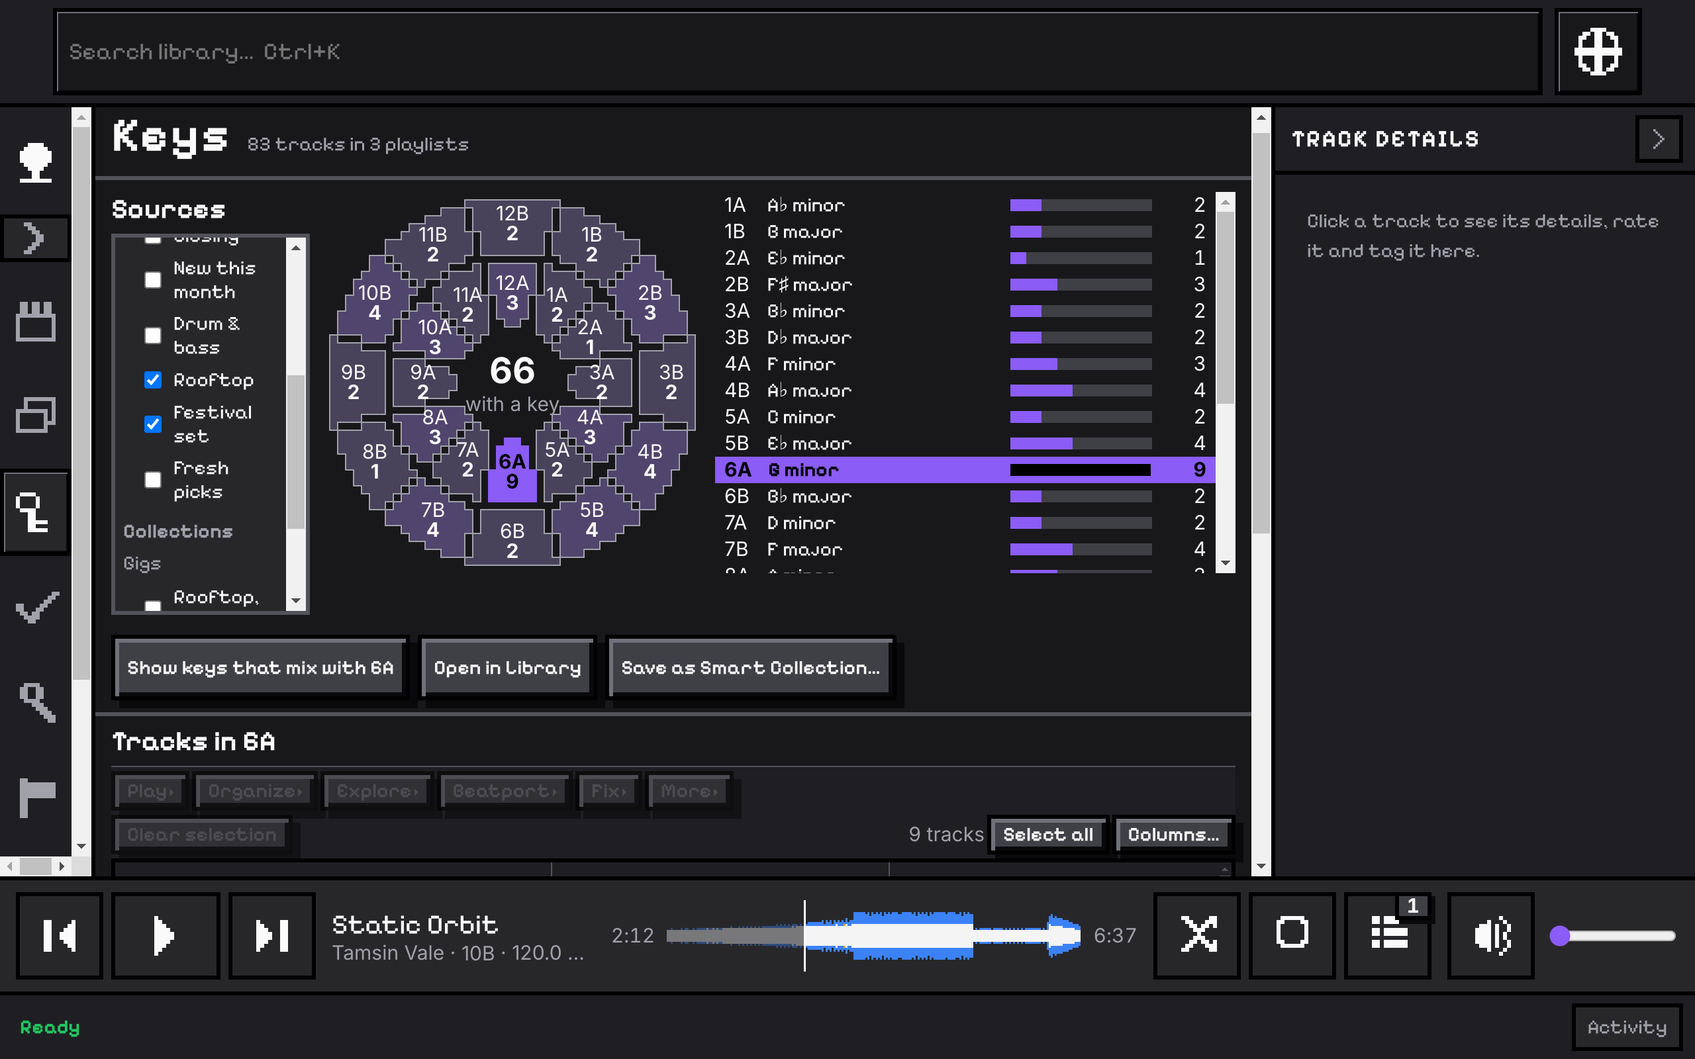
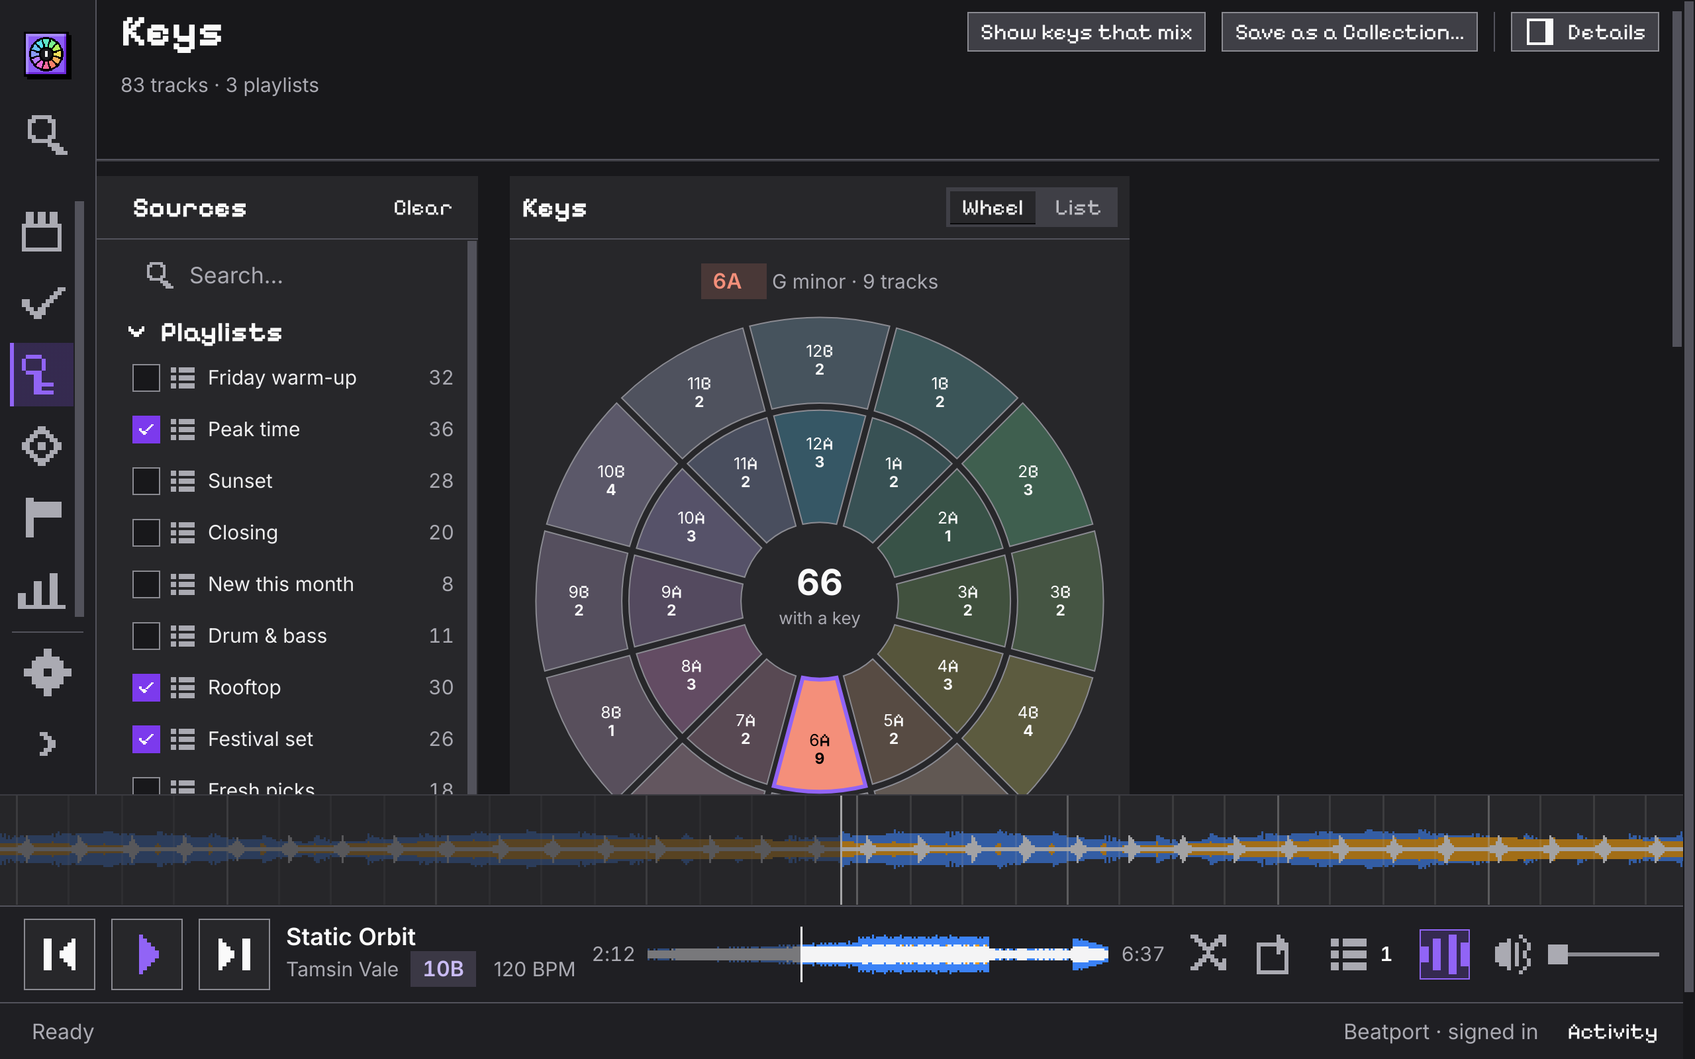
build(website): retake the app's pictures from the current app (SITE-04)
The site still showed the app from mid-October. The capture is brought up to
date with the app (the wheel opens from a key chip, Statistics has tabs, Clean
opens on the seeded Review, the export picks playlists through Change) and
keeps Track details closed in the Library and window pictures, where the
selection bar squeezes beside it at 1280 wide. Captions follow what each
picture now shows.

diff --git a/apps/desktop-electron/e2e/capture/showcase.spec.ts b/apps/desktop-electron/e2e/capture/showcase.spec.ts
@@ -49,16 +49,16 @@ type Bridge = Record<string, any>;
  * (home.ts's words, kept to what the picture shows; reviewed by hand once).
  */
 const ALT: Record<string, string> = {
-  library: "The Library page: the table of tracks with the Collections and playlists beside it, and the Track details panel open on one track, showing its cover, key and waveform.",
-  window: "The CuePoint window on a library of tracks, with the Camelot wheel open and the selected track's key lit with the keys that mix with it.",
-  waveforms: "The player bar with a paused track's waveform, and Track details showing the track's waveform, loudness and cue points.",
-  keys: "The Keys page: the keys of three playlists counted on the Camelot wheel, with one key opened and its tracks counted beneath.",
-  statistics: "The Statistics page's Your library section: four charts of how the whole library spreads by genre, tempo, year and date added, with the count on every bar.",
+  library: "The Library page: the table of tracks with the Collections and playlists beside it, and one track selected with the actions for it above the table.",
+  window: "The CuePoint window on a library of tracks, with the Camelot wheel open on the playing track's key, lit with the keys that mix with it.",
+  waveforms: "The player bar with a paused track's waveform, and Track details showing the whole track's waveform with its cue points listed beneath.",
+  keys: "The Keys page: the keys of three playlists counted on the Camelot wheel, with the key that holds the most tracks picked.",
+  statistics: "The Statistics page's Overview: how the whole library spreads by genre, label and artist, with the count on every bar.",
   prepare: "The Prepare page: a Set as a running order in chapters, with the checks between tracks and the transition strip open on one of them.",
-  export: "The Export to Rekordbox window: how many tracks and which playlists the new Rekordbox file will hold, before anything is written.",
+  export: "The Export to Rekordbox window: how many tracks and playlists the new Rekordbox file will hold, and what goes in it, before anything is written.",
   discover: "The Discover page after a search: new tracks found on a Beatport chart by an artist in the library, with their artists and labels.",
-  clean: "The Clean page's Match area as a table: the tracks a Beatport match left waiting for a yes or no, with their tempo and genre beside them.",
-  "clean-compare": "Clean's Match area, the Review of a run: a track from the library beside the best match Beatport found, with its likelihood, the other results, and the Correct button.",
+  clean: "The Clean page's Match area: the tracks a Beatport match left to check, each beside what Beatport matched it with.",
+  "clean-compare": "Clean's Check the match panel: a track from the library beside the candidates Beatport found, with Use this match and None of these.",
 };
 
 function python(): string {
@@ -237,6 +237,8 @@ async function settled(window: Page) {
 }
 
 async function shoot(window: Page, id: keyof typeof ALT, taken: Record<string, string>) {
+  // the pointer on the status bar's empty middle, so no hint opens over the picture
+  await window.mouse.move(WINDOW.width / 2, WINDOW.height - 4);
   await settled(window);
   const file = path.join(OUT_DIR, `${id}-${THEME}.png`);
   await window.screenshot({ path: file, type: "png", animations: "disabled", caret: "hide" });
@@ -388,7 +390,7 @@ test.describe("the website's pictures (SITE-04)", () => {
         if (await button.count()) await button.click();
         await expect(window.getByRole("button", { name: state === "rail" ? "Expand sidebar" : "Collapse sidebar" })).toBeVisible();
       };
-      await test.step("library: the table with Track details open", async () => {
+      await test.step("library: the table with one track selected", async () => {
         await openLibrary(window);
         // the sidebar as a rail, the way a person with this window keeps it: the table gets its columns
         await sidebar("rail");
@@ -401,22 +403,27 @@ test.describe("the website's pictures (SITE-04)", () => {
         }
         expect(selected, "a visible row with a key").toBeTruthy();
         await titleCell(window, selected).click();
+        // Track details stays closed in this picture and the next: beside it, at this window's width, the
+        // selection bar's menu buttons are squeezed into each other (the owner's pick, 2026-10-30)
         const details = window.getByRole("complementary", { name: "Track details" });
+        // the click opens the panel a moment later: wait for it, then close it
         await expect(details).toBeVisible();
-        await expect(details.locator("[data-testid=inspector-waveform] canvas")).toBeVisible({ timeout: 30_000 });
+        await details.getByRole("button", { name: "Hide track details" }).click();
+        await expect(details).toBeHidden();
         await shoot(window, "library", taken);
       });
 
       await test.step("window: the Camelot wheel open on the selected track's key", async () => {
         // the whole window, with the sidebar's page names on it
         await sidebar("expanded");
-        await window.getByRole("button", { name: "Camelot wheel", exact: true }).click();
+        // the wheel opens from a coloured key chip (K8): the player bar's, with Track details closed
+        const opener = window.locator(".cp-player-bar").getByRole("button", { name: /^Show .+ on the Camelot wheel$/ });
+        await opener.click();
         const wheel = window.getByRole("dialog", { name: "Camelot wheel" });
-        await expect(wheel).toContainText(`Selected: ${selected}`, { timeout: 15_000 });
-        await expect(wheel.locator("[data-lit]").first()).toBeVisible();
+        await expect(wheel.locator("[data-lit]").first()).toBeVisible({ timeout: 15_000 });
         await shoot(window, "window", taken);
-        // the button closes it too; Escape would also clear the table's selection
-        await window.getByRole("button", { name: "Camelot wheel", exact: true }).click();
+        // the chip closes it too; Escape would also clear the table's selection
+        await opener.click();
         await expect(wheel).toBeHidden();
       });
 
@@ -425,16 +432,20 @@ test.describe("the website's pictures (SITE-04)", () => {
       await test.step("waveforms: the player bar and Track details' waveform, loudness and cues", async () => {
         await titleCell(window, selected).click();
         const details = window.getByRole("complementary", { name: "Track details" });
+        // the panel was closed for the pictures before: the header's Details button opens it again
+        if (!(await details.isVisible())) await window.getByRole("button", { name: "Track details", exact: true }).filter({ visible: true }).click();
         await expect(details.locator("[data-testid=inspector-waveform] canvas")).toBeVisible({ timeout: 30_000 });
         // Overview holds the facts, the waveform and the cues: fold Rekordbox's details, so they sit together
         await details.getByRole("tab", { name: "Overview" }).click();
-        const rekordbox = details.getByRole("button", { name: /^Details from Rekordbox/ });
-        if ((await rekordbox.getAttribute("aria-expanded")) === "true") await rekordbox.click();
+        const rekordbox = details.getByRole("button", { name: /^From your Rekordbox file/ });
+        if ((await rekordbox.count()) && (await rekordbox.getAttribute("aria-expanded")) === "true") await rekordbox.click();
         const cues = details.getByRole("button", { name: /^Cue points/ });
         if ((await cues.getAttribute("aria-expanded")) === "false") await cues.click();
         await details.locator("[data-testid=inspector-waveform]").evaluate((el) => el.scrollIntoView({ block: "start" }));
         await expect(cues).toBeInViewport();
         await shoot(window, "waveforms", taken);
+        await details.getByRole("button", { name: "Hide track details" }).click();
+        await expect(details).toBeHidden();
       });
 
       await test.step("keys: one playlist counted, one key opened", async () => {
@@ -442,17 +453,15 @@ test.describe("the website's pictures (SITE-04)", () => {
         await expect(window.getByRole("heading", { name: "Keys", level: 1 })).toBeVisible();
         const sources = window.getByRole("group", { name: "Sources" });
         for (const name of ["Peak time", "Festival set", "Rooftop"]) await sources.getByRole("checkbox", { name, exact: true }).check();
-        await expect(window.getByRole("status").filter({ hasText: "in 3 playlists" })).toBeVisible({ timeout: 30_000 });
-        // The page opens on the wheel (K15); these steps read the list.
-        await window.getByRole("toolbar", { name: "Track list" }).getByRole("button", { name: "List" }).click();
-        const list = window.getByRole("group", { name: "Keys in these sources" });
-        // the key with the most tracks in it
-        const counts = await list.locator(".keys-counts__count").allInnerTexts();
-        const best = counts.map((text, index) => ({ n: Number(text.replace(/\D/g, "")) || 0, index })).sort((a, b) => b.n - a.n)[0]!;
-        await list.getByRole("button").nth(best.index).click();
-        await expect(window.locator(".track-table__row").first()).toBeVisible({ timeout: 30_000 });
-        // back to the wheel for the picture, then the wheel at the top and the tracks under it
-        await window.getByRole("tab", { name: "Wheel" }).click();
+        await expect(window.getByRole("status").filter({ hasText: "3 playlists" }).first()).toBeVisible({ timeout: 30_000 });
+        // the key with the most tracks in it, picked on the wheel (each segment is named "6A, G minor, 9 tracks")
+        const segments = window.getByRole("group", { name: "Keys", exact: true }).getByRole("button");
+        await expect(segments.first()).toBeVisible({ timeout: 30_000 });
+        const names = await segments.evaluateAll((els) => els.map((el) => el.getAttribute("aria-label") ?? el.textContent ?? ""));
+        const best = names.map((name, index) => ({ n: Number(/(\d+) tracks?$/.exec(name)?.[1] ?? 0), index })).sort((a, b) => b.n - a.n)[0]!;
+        // the segments are drawn shapes: click through the DOM
+        await segments.nth(best.index).evaluate((el) => (el as HTMLElement).click());
+        await expect(window.getByRole("grid", { name: "Tracks in these keys" }).locator(".track-table__row").first()).toBeVisible({ timeout: 30_000 });
         await window.getByRole("heading", { name: "Keys", level: 1 }).evaluate((el) => el.scrollIntoView({ block: "start" }));
         await shoot(window, "keys", taken);
       });
@@ -461,20 +470,14 @@ test.describe("the website's pictures (SITE-04)", () => {
         await window.getByRole("link", { name: "Statistics", exact: true }).click();
         await expect(window.getByRole("heading", { name: "Statistics", level: 1 })).toBeVisible();
         await expect(window.getByRole("combobox", { name: "Which tracks" })).toHaveValue("library", { timeout: 30_000 });
-        const plays = window.getByRole("region", { name: "Plays" });
-        const library = window.getByRole("region", { name: "Your library" });
-        const health = window.getByRole("region", { name: "Health" });
-        await expect(plays.getByRole("list", { name: "Most played" })).toBeVisible({ timeout: 30_000 });
-        await expect(library.locator('[data-panel="genre"]')).toBeVisible({ timeout: 30_000 });
-        await expect(health.locator('[data-panel="files"]')).toBeVisible({ timeout: 30_000 });
-        // nothing is selected on this page: the panel away gives the sections their width
+        // the Overview tab: how the whole library spreads, a chart per field with the count on every bar
+        await window.getByRole("tab", { name: "Overview" }).click();
+        const overview = window.getByRole("tabpanel", { name: "Overview" });
+        await expect(overview.getByRole("region", { name: "Genres" })).toBeVisible({ timeout: 30_000 });
+        // nothing is selected on this page: the panel away gives the charts their width
         const hide = window.getByRole("button", { name: "Hide track details" });
         if (await hide.count()) await hide.click();
-        // the page is taller than the window: the spreads, four charts that show the library at a
-        // glance, are the picture (the Plays list above them is a list; the scope sits above that)
-        await window.getByRole("heading", { name: "Your library", level: 2 }).evaluate((el) => el.scrollIntoView({ block: "start" }));
-        await expect(library.locator('[data-panel="genre"]')).toBeInViewport();
-        await expect(library.locator('[data-panel="tempo"]')).toBeInViewport();
+        await idle(window);
         await shoot(window, "statistics", taken);
       });
 
@@ -497,7 +500,9 @@ test.describe("the website's pictures (SITE-04)", () => {
         await openLibrary(window);
         await window.locator('[data-slot="library-header"]').getByRole("button", { name: "Export to Rekordbox…" }).click();
         const dialog = window.getByRole("dialog", { name: "Export to Rekordbox" });
-        await expect(dialog.getByTestId("export-track-count")).toBeVisible({ timeout: 30_000 });
+        await expect(dialog.getByTestId("export-summary")).toBeVisible({ timeout: 30_000 });
+        // "No playlists · Change" opens the tick list (M513)
+        await dialog.getByTestId("export-chosen").getByRole("button", { name: "Change" }).click();
         await dialog.getByRole("checkbox", { name: /^Rooftop, Oct 10/ }).check();
         await dialog.getByRole("checkbox", { name: /^Club night/ }).check();
         await expect(dialog.getByText(/Working out what the export would write/)).toHaveCount(0, { timeout: 30_000 });
@@ -514,7 +519,7 @@ test.describe("the website's pictures (SITE-04)", () => {
         await expect(panel).toBeVisible({ timeout: 30_000 });
         await panel.getByRole("checkbox", { name: "House", exact: true }).check();
         await panel.getByRole("button", { name: "Start dig" }).click();
-        await expect(window.getByText(/^Found \d+ tracks from 1 chart/)).toBeVisible({ timeout: 90_000 });
+        await expect(window.getByText(/found \d+ tracks from 1 chart/i).first()).toBeVisible({ timeout: 90_000 });
         // The shot of the table: Everything, after the cards.
         await window.getByRole("button", { name: /^Everything · / }).click();
         const found = window.getByRole("grid", { name: "Tracks this dig found" });
@@ -532,30 +537,15 @@ test.describe("the website's pictures (SITE-04)", () => {
       });
 
       await test.step("clean: the Review of a playlist after it is matched", async () => {
-        await window.getByRole("link", { name: "Clean", exact: true }).click();
+        await window.getByRole("link", { name: /^Clean\b/ }).click();
         await expect(window.getByRole("heading", { name: "Clean", level: 1 })).toBeVisible();
-        // Match opens on Playlists (C22): tick the live playlist and press Match.
-        const live = showcase.playlists.find((p) => p.name === showcase.livePlaylist)!;
-        await window.getByRole("checkbox", { name: `Match ${showcase.livePlaylist}`, exact: true }).check({ timeout: 30_000 });
-        await window.getByRole("button", { name: "Match ticked playlists" }).click();
-        await expect(window.getByText(`Matching ${live.trackIds.length} tracks on Beatport.`, { exact: true })).toBeVisible({ timeout: 30_000 });
-        // the job's end, not the toast's: the toast goes on its own
-        await idle(window);
+        // the seeded matches open on their Review (step 3 of 3): every track, what Beatport matched it
+        // with, and the ones left for a yes or no
+        const queue = window.getByRole("table", { name: /^Every track of this playlist/ });
+        await expect(queue.locator("td.review-row__theirs").first()).not.toBeEmpty({ timeout: 30_000 });
         // Errors and warnings stay until closed (DEC-281): close any still showing.
         await closeToasts(window);
         await expect(window.locator(".cp-toast")).toHaveCount(0, { timeout: 60_000 });
-        // the page opened afresh, so its counts hold what the match left for a yes or no
-        await openLibrary(window);
-        await window.getByRole("link", { name: "Clean", exact: true }).click();
-        await expect(window.getByRole("heading", { name: "Clean", level: 1 })).toBeVisible();
-        // the run's Review: every track, with what was found for it and where it stands
-        // the match landed on its Review; the page kept it, and its row's Review opens it again
-        const reviewTab = window.getByRole("tab", { name: `Review ${showcase.livePlaylist}` });
-        if (await reviewTab.count()) await reviewTab.click();
-        else await window.getByRole("button", { name: `Review ${showcase.livePlaylist}`, exact: true }).click();
-        const queue = window.getByRole("region", { name: /^Review / }).getByRole("table");
-        await expect(queue.getByRole("row")).not.toHaveCount(1, { timeout: 30_000 });
-        await expect(queue.locator("td.review-row__theirs").first()).not.toBeEmpty({ timeout: 30_000 });
         await expect(window.locator(".cp-status")).toContainText("Ready");
         await shoot(window, "clean", taken);
       });
@@ -565,19 +555,20 @@ test.describe("the website's pictures (SITE-04)", () => {
         await closeToasts(window);
         await expect(window.locator(".cp-toast")).toHaveCount(0, { timeout: 60_000 });
         // a click on a row opens the side panel: your file and every candidate Beatport found
-        await window.getByRole("region", { name: /^Review / }).locator("tr.review-row").first().locator("td.review-row__yours").click();
-        const panel = window.getByRole("complementary", { name: "Track details" });
-        const yours = panel.getByRole("region", { name: "Your file" });
+        await window.getByRole("table", { name: /^Every track of this playlist/ }).locator("tr.review-row").first().locator("td.review-row__yours").click();
+        const panel = window.getByRole("complementary", { name: /^Candidates for / });
+        const yours = panel.getByRole("region", { name: "Your track" });
         const candidates = panel.getByRole("radiogroup", { name: "Beatport candidates" });
         await expect(candidates).toBeVisible({ timeout: 30_000 });
-        await expect(panel.getByRole("button", { name: "None of these - leave it out" })).toBeVisible();
-        // your cover, decoded by the app from the fixture
-        await expect(yours.locator("img.review-panel__art")).toBeVisible({ timeout: 30_000 });
+        await expect(panel.getByRole("button", { name: "None of these, leave it out" })).toBeVisible();
+        await expect(yours).toBeVisible();
         await expect
           .poll(() => panel.locator("img").evaluateAll((imgs) => imgs.every((img) => (img as HTMLImageElement).complete && (img as HTMLImageElement).naturalWidth > 0)), {
             timeout: 30_000,
           })
           .toBe(true);
+        // the panel scrolls: the candidates in view, under your track
+        await candidates.evaluate((el) => el.scrollIntoView({ block: "end" }));
         await expect(candidates).toBeInViewport();
         await shoot(window, "clean-compare", taken);
       });

diff --git a/apps/website/src/data/home.ts b/apps/website/src/data/home.ts
@@ -69,27 +69,27 @@ export type AppShotId =
 export const APP_SHOTS: Readonly<Record<AppShotId, AppShotDef>> = {
   window: {
     label: "The CuePoint window",
-    alt: "The CuePoint window on a library of tracks, with the Camelot wheel open and the selected track's key lit with the keys that mix with it.",
+    alt: "The CuePoint window on a library of tracks, with the Camelot wheel open on the playing track's key, lit with the keys that mix with it.",
     ...WINDOW,
   },
   clean: {
     label: "Clean",
-    alt: "The Clean page's Match area as a table: the tracks a Beatport match left waiting for a yes or no, with their tempo and genre beside them.",
+    alt: "The Clean page's Match area: the tracks a Beatport match left to check, each beside what Beatport matched it with.",
     ...WINDOW,
   },
   "clean-compare": {
     label: "Clean: one at a time",
-    alt: "Clean's Match area, One at a time: a track from the library beside the best match Beatport found, with its likelihood, the other results, and the Correct button.",
+    alt: "Clean's Check the match panel: a track from the library beside the candidates Beatport found, with Use this match and None of these.",
     ...WINDOW,
   },
   library: {
     label: "The Library",
-    alt: "The Library page: the table of tracks with the Collections and playlists beside it, and the Track details panel open on one track, showing its cover, key and waveform.",
+    alt: "The Library page: the table of tracks with the Collections and playlists beside it, and one track selected with the actions for it above the table.",
     ...WINDOW,
   },
   keys: {
     label: "Keys",
-    alt: "The Keys page: the keys of three playlists counted on the Camelot wheel, with one key opened and its tracks counted beneath.",
+    alt: "The Keys page: the keys of three playlists counted on the Camelot wheel, with the key that holds the most tracks picked.",
     ...WINDOW,
   },
   discover: {
@@ -104,17 +104,17 @@ export const APP_SHOTS: Readonly<Record<AppShotId, AppShotDef>> = {
   },
   statistics: {
     label: "Statistics",
-    alt: "The Statistics page's Your library section: four charts of how the whole library spreads by genre, tempo, year and date added, with the count on every bar.",
+    alt: "The Statistics page's Overview: how the whole library spreads by genre, label and artist, with the count on every bar.",
     ...WINDOW,
   },
   waveforms: {
     label: "Waveforms and the player",
-    alt: "The player bar with a paused track's waveform, and Track details showing the track's waveform, loudness and cue points.",
+    alt: "The player bar with a paused track's waveform, and Track details showing the whole track's waveform with its cue points listed beneath.",
     ...WINDOW,
   },
   export: {
     label: "Export to Rekordbox",
-    alt: "The Export to Rekordbox window: how many tracks and which playlists the new Rekordbox file will hold, before anything is written.",
+    alt: "The Export to Rekordbox window: how many tracks and playlists the new Rekordbox file will hold, and what goes in it, before anything is written.",
     ...WINDOW,
   },
 };
